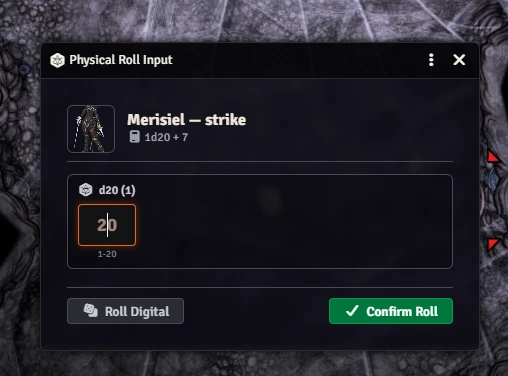
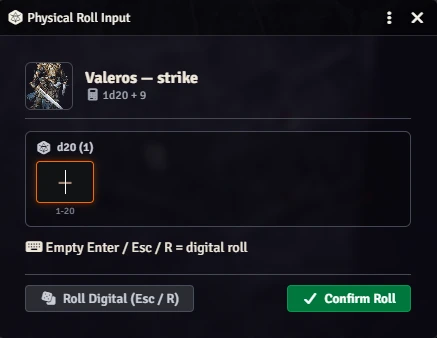
fix: force column layout for chat badge and update docs screenshot

diff --git a/tests/chat-badge.test.ts b/tests/chat-badge.test.ts
@@ -29,12 +29,37 @@ class MockElement {
     };
   }
 
+  get firstChild(): MockElement | null {
+    return this.children[0] ?? null;
+  }
+
   get lastElementChild(): MockElement | null {
     return this.children[this.children.length - 1] ?? null;
   }
 
+  parentElement: MockElement | null = null;
+
   appendChild(child: MockElement) {
+    if (child.parentElement) {
+      child.parentElement.removeChild(child);
+    }
+    child.parentElement = this;
+    const idx = this.children.indexOf(child);
+    if (idx !== -1) {
+      this.children.splice(idx, 1);
+    }
     this.children.push(child);
+    return child;
+  }
+
+  removeChild(child: MockElement) {
+    const idx = this.children.indexOf(child);
+    if (idx !== -1) {
+      this.children.splice(idx, 1);
+    }
+    if (child.parentElement === this) {
+      child.parentElement = null;
+    }
     return child;
   }
 
@@ -52,8 +77,21 @@ class MockElement {
     if (selector === '.message-metadata') {
       return this.children.find((c) => c.className.includes('message-metadata')) ?? null;
     }
+    if (selector === '.pp-dice-meta-row') {
+      if (this.className.includes('pp-dice-meta-row')) return this;
+      for (const child of this.children) {
+        const found = child.querySelector(selector);
+        if (found) return found;
+      }
+      return null;
+    }
     if (selector === '.pp-dice-badge-container') {
-      return this.children.find((c) => c.className.includes('pp-dice-badge-container')) ?? null;
+      if (this.className.includes('pp-dice-badge-container')) return this;
+      for (const child of this.children) {
+        const found = child.querySelector(selector);
+        if (found) return found;
+      }
+      return null;
     }
     if (selector === '.pp-dice-chat-tag') {
       if (this.className.includes('pp-dice-chat-tag')) return this;
@@ -127,7 +165,7 @@ describe('renderChatBadge', () => {
     expect(html.querySelector('.pp-dice-chat-tag')).toBeNull();
   });
 
-  it('attaches badge container below metadata elements when physical roll', () => {
+  it('attaches badge container below metadata elements in a flex column when physical roll', () => {
     const message = {
       rolls: [{ options: { [FLAGS.PHYSICAL_ROLL]: true } }],
     };
@@ -138,6 +176,8 @@ describe('renderChatBadge', () => {
     meta.classList.add('message-metadata');
     const time = new MockElement('time');
     meta.appendChild(time);
+    const del = new MockElement('a');
+    meta.appendChild(del);
     header.appendChild(meta);
     html.appendChild(header);
 
@@ -147,15 +187,26 @@ describe('renderChatBadge', () => {
     const metadata = header.querySelector('.message-metadata') as MockElement;
     expect(metadata.classList.contains('pp-dice-metadata')).toBe(true);
 
+    // Row 1 should be .pp-dice-meta-row wrapping original elements
+    const metaRow = metadata.querySelector('.pp-dice-meta-row') as MockElement;
+    expect(metaRow).not.toBeNull();
+    expect(metaRow.children).toContain(time);
+    expect(metaRow.children).toContain(del);
+
+    // Row 2 should be .pp-dice-badge-container
     const container = metadata.querySelector('.pp-dice-badge-container') as MockElement;
     expect(container).not.toBeNull();
-    // Container should be appended at the end
     expect(metadata.lastElementChild).toBe(container);
 
     const badge = container.querySelector('.pp-dice-chat-tag') as MockElement;
     expect(badge).not.toBeNull();
     expect(badge.innerHTML).toContain('fa-dice-d20');
     expect(badge.innerHTML).toContain('Physical');
+
+    // Idempotency: second call should not re-wrap or duplicate
+    const secondCall = renderChatBadge(message, html);
+    expect(secondCall).toBe(true);
+    expect(metadata.children.length).toBe(2);
   });
 
   it('works when html is jQuery-like array', () => {

diff --git a/src/ui/chat-badge.ts b/src/ui/chat-badge.ts
@@ -31,8 +31,26 @@ export function renderChatBadge(message: any, html: any): boolean {
     element.querySelector('.message-header');
   if (!target) return false;
 
+  if (target.classList?.contains?.('pp-dice-metadata')) return true;
   target.classList?.add('pp-dice-metadata');
 
+  // Wrap existing metadata elements (timestamp, delete icon, etc.) in row 1
+  const metaRow = doc.createElement('div');
+  metaRow.className = 'pp-dice-meta-row';
+  const existingChildren = Array.from((target.children as any[]) || []);
+  for (const child of existingChildren) {
+    if (target.removeChild) {
+      try {
+        target.removeChild(child);
+      } catch {
+        // Ignore if child already detached
+      }
+    }
+    metaRow.appendChild(child);
+  }
+  target.appendChild(metaRow);
+
+  // Append badge container in row 2
   const container = doc.createElement('div');
   container.className = 'pp-dice-badge-container';
 

diff --git a/src/styles/pp-dice.css b/src/styles/pp-dice.css
@@ -194,16 +194,22 @@
   background: #00994d;
 }
 
-.message-header .message-metadata.pp-dice-metadata {
+.chat-message .message-header .message-metadata.pp-dice-metadata {
+  display: flex !important;
+  flex-direction: column !important;
+  align-items: flex-end !important;
+  justify-content: flex-start !important;
+  row-gap: 2px !important;
+}
+
+.pp-dice-meta-row {
   display: flex;
-  flex-wrap: wrap;
-  justify-content: flex-end;
   align-items: center;
-  row-gap: 3px;
+  gap: 5px;
+  white-space: nowrap;
 }
 
 .pp-dice-badge-container {
-  flex-basis: 100%;
   display: flex;
   justify-content: flex-end;
 }
@@ -220,4 +226,5 @@
   border-radius: 4px;
   font-weight: 600;
   line-height: 1.15;
+  white-space: nowrap;
 }

diff --git a/CHANGELOG.md b/CHANGELOG.md
@@ -7,7 +7,13 @@ and this project adheres to [Semantic Versioning](https://semver.org/spec/v2.0.0
 
 ## [Unreleased]
 
-## [1.0.8] - 2026-09-23
+## [1.0.9] - 2026-09-23
+
+### Fixed
+
+- Forced vertical column layout for chat card metadata so the physical roll badge always stacks cleanly under the timestamp and delete icon across all systems (including PF2e grid headers).
+- Wrapped existing metadata elements inside a dedicated row container (`.pp-dice-meta-row`) and applied `flex-direction: column !important` with high specificity.
+- Updated documentation screenshot in `docs/images/screenshot00.webp`.
 
 ### Changed
 
